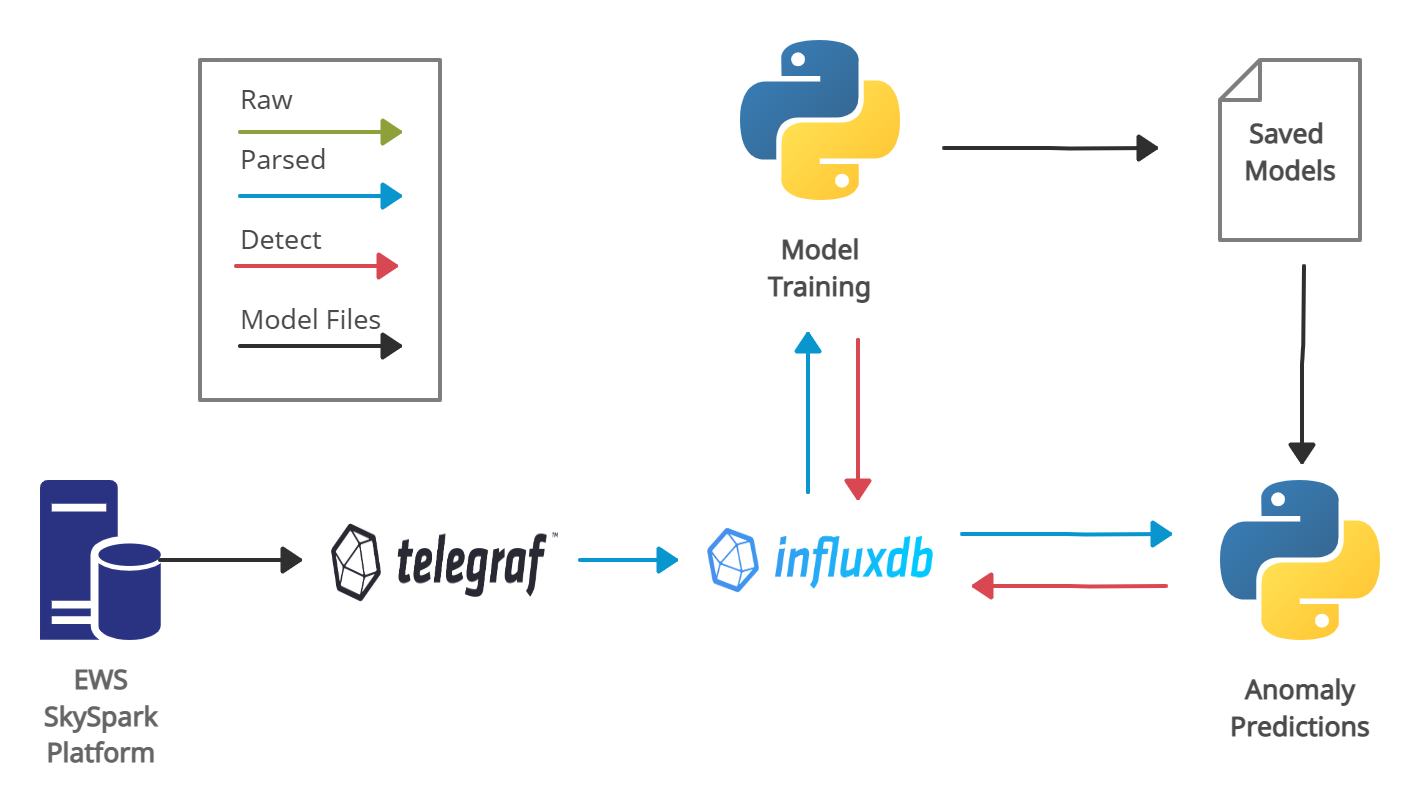
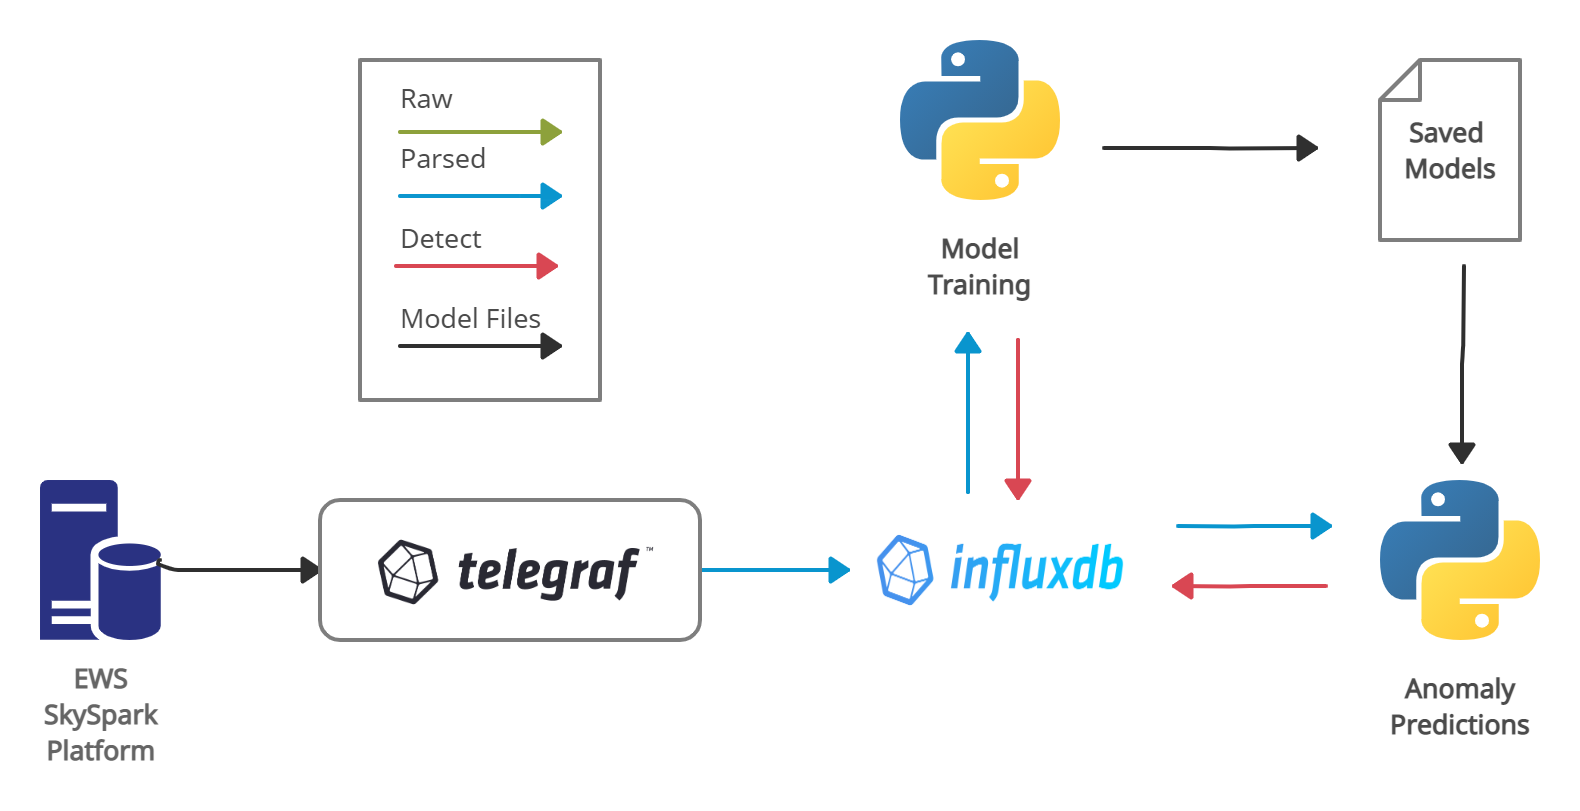
README and image updates

diff --git a/README.md b/README.md
@@ -25,7 +25,7 @@ Note that this repository was used for all project documents (not limited to cod
 The Urban Data Lab (UDL) advances data access, data management and data analytics capabilities on the University of British Columbia (UBC) campus with a goal of addressing campus-wide sustainability challenges. UDL has access to the UBC Energy and Water Services (EWS) SkySpark analytics platform that collects data from buildings on the UBC campus including information such as heating, ventilation and air conditioning (HVAC) equipment and energy data. UDL stores data from SkySpark in their own database using InfluxDB and have noticed potentially erroneous data reporting from SkySpark. There is currently no system in place with InfluxDB to flag these data. The project goal was to develop a real-time anomaly detection system using open-source tools that could be used with InfluxDB.
 
 <p align="center">
-  <img src="images/concept.svg" alt="Project Concept" width="450"/>
+  <img src="images/concept.png" alt="Project Concept" width="500"/>
 </p>
 
 ### Anomaly Detection Framework
@@ -33,7 +33,7 @@ The Urban Data Lab (UDL) advances data access, data management and data analytic
 The approach used in this study provides near real-time anomaly detection with InfluxDB. Model training is completed by querying sensor data on an infrequent basis (for example monthly), training, and saving the models. Anomaly detection occurs on a continuous basis by reading recent data, loading and running the previously trained models, and writing predictions to InfluxDB. A subset of Campus Energy Center (CEC) boiler sensors available in SkySpark was selected for the study to test this approach.
 
 <p align="center">
-  <img src="images/framework.png" alt="Anomaly Detection Framework" width="450"/>
+  <img src="images/framework.png" alt="Anomaly Detection Framework" width="500"/>
 </p>
 
 ### Anomaly Detection Model
@@ -41,7 +41,7 @@ The approach used in this study provides near real-time anomaly detection with I
 A long short-term memory recurrent neural network with an encoder-decoder architecture (LSTM-ED) is used for anomaly detection. This was selected as it provides a general model with good performance in recent studies. The generalizability of the LSTM-ED is important given the wide variety of sensor types available to UDL. The model is trained in an unsupervised approach using sequence reconstruction of input data. Anomaly predictions are then based on identifying data with high sequence reconstruction error. The LSTM-ED was found to have good initial performance on the selected subset of CEC sensors. A data pattern was identified that the model had trouble detecting but it is believed that performance can be improved using more sophisticated anomaly error/threshold identification rules.
 
 <p align="center">
-  <img align="center" src="images/LSTM-ED.png" alt="LSTM-ED" width="550"/>
+  <img align="center" src="images/LSTM-ED.png" alt="LSTM-ED" width="600"/>
 </p>
 
 ### Dashboard and Notification System

diff --git a/code/labeller-app/README.md b/code/labeller-app/README.md
@@ -23,4 +23,4 @@ The app uses the [`renv` package](https://rstudio.github.io/renv/articles/renv.h
 
 ## Demo
 
-A demo of the app is available [here](../../images/app.GIF). It includes loading a file (previously labelled) that has approximately 400,000 data points (34 MB file), interactively moving around the graph, selecting/labelling data points as anomalous, and downloading the updated file. The demo shows that while loading the graph takes some time, interacting with the graph has good performance.
+A demo of the app is available [here](demo/). It includes loading a file (previously labelled) that has approximately 400,000 data points (34 MB file), interactively moving around the graph, selecting/labelling data points as anomalous, and downloading the updated file. The demo shows that while loading the graph takes some time, interacting with the graph has good performance.

diff --git a/code/README.md b/code/README.md
@@ -29,13 +29,13 @@ Currently only contains `influxdb_query_test.ipynb` used to support understandin
 Provides code for the model training and anomaly predictions with the anomaly detection framework.
 
 <p align="center">
-  <img src="../images/framework.png" alt="Anomaly Detection Framework" width="450"/>
+  <img src="../images/framework.png" alt="Anomaly Detection Framework" width="500"/>
 </p>
 
 The model pipeline implemented is shown below (details are provided in the final report).
 
 <p align="center">
-  <img src="../images/LSTM_pipeline.png" alt="LSTM Pipeline" width="600"/>
+  <img src="../images/LSTM_pipeline.png" alt="LSTM Pipeline" width="700"/>
 </p>
 
 The directory contains a README that provides a description of  the files.

diff --git a/code/labeller-app/renv/demo/README.md b/code/labeller-app/renv/demo/README.md
@@ -1,0 +1,3 @@
+# Labeller App Demo
+
+![](app.GIF)
